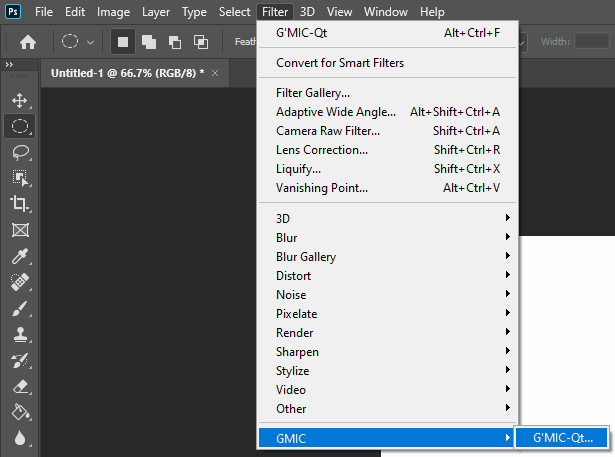
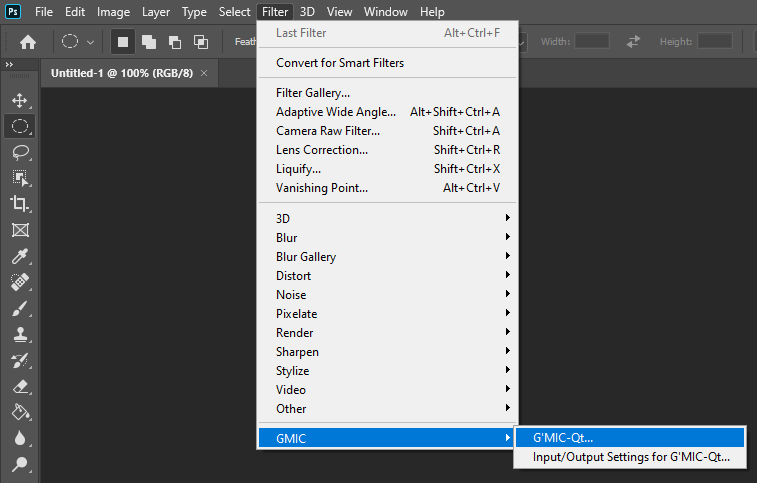
Release version 1.2.0

diff --git a/src/common/version.h b/src/common/version.h
@@ -13,7 +13,7 @@
 #ifndef VERSION_H
 #define VERSION_H
 
-#define VI_VERSION       1,1,3,0
-#define VI_VERSION_STR  "1.1.3.0"
+#define VI_VERSION       1,2,0,0
+#define VI_VERSION_STR  "1.2.0.0"
 
 #endif // !VERSION_H

diff --git a/Readme.md b/Readme.md
@@ -22,7 +22,9 @@ The following image shows the menu location in Adobe Photoshop.
 
 ![Menu Location](images/MenuLocation.png)
 
-When the G'MIC-Qt menu item is clicked it will start the G'MIC-Qt user interface.
+### G'MIC-Qt
+
+When the *G'MIC-Qt* menu item is clicked it will start the G'MIC-Qt user interface.
 
 ![G'MIC-Qt UI](images/GmicQt-UI-Small.png)
 
@@ -30,13 +32,43 @@ You can "layer" multiple G'MIC effects in a single session by clicking the Apply
 Note that only the most recently applied effect will be used when the plug-in is invoked
 through the "Last Filter" or "Repeat Filter" commands.
 
-Filters that require multiple input images can only be used if the document has multiple layers and the host supports
-providing layers to the plug-in.
-This feature is supported in Adobe Photoshop CS (8.0) and later (and possibly other Adobe applications), but 3rd-party
-hosts will most likely not support it due to the license restrictions added to the Photoshop SDK after version 6.0.
+Filters that require multiple input images can only be used if the input settings have been configured to provide a
+second input image or the document has multiple layers and the host supports providing layers to the plug-in.
+Document layers are provided to plug-ins by Adobe Photoshop CS (8.0) and later (and possibly other Adobe applications), but 3rd-party
+hosts will most likely not support this feature due to the license restrictions added to the Photoshop SDK after version 6.0.
 
-If a filter produces multiple output images the plug-in will prompt the user for a folder to copy them into
-after the G'MIC-Qt dialog has been closed.
+If the user has not configured a default output folder the plug-in will prompt the user to save the modified images after the
+G'MIC-Qt dialog has been closed in the following cases:
+
+1. When a filter produces multiple output images the plug-in will prompt the user for a folder to copy them into.
+2. When a filter changes the image size the plug-in will prompt the user to save the resized image.
+
+### Input/Output Settings for G'MIC-Qt
+
+When the *Input/Output Settings for G'MIC-Qt* menu item is clicked it will start the Input/Output Settings for G'MIC-Qt user interface.
+
+![G'MIC-Qt Input/Output settings UI](images/GmicQtIOSettings-UI.png)
+
+#### Input Settings
+
+This section allows a second input image to be sent to G'MIC-Qt for the filters that require one.
+The settings in this section will be ignored if the document has multiple layers and the host supports providing layers to plug-ins.
+
+You can choose from one of the following options:
+
+* None (default)
+  * The plug-in will only use the document layers for additional input images.
+* Clipboard
+  * The plug-in will look for a second input image on the operating system clipboard.
+* File
+  * The plug-in will use the specified image as the second input image.
+
+#### Output Settings
+
+This section allows users to set a default output folder for filters that produce multiple output images or resizes the output image.
+The output folder should default to a G'MIC-Qt folder in your Pictures folder, but it can be changed to any folder.   
+When this option is configured the plug-in will copy the output image(s) to the specified folder without prompting the user.
+A prompt will still be shown if there was an error loading the default folder setting.
 
 ## License
 
